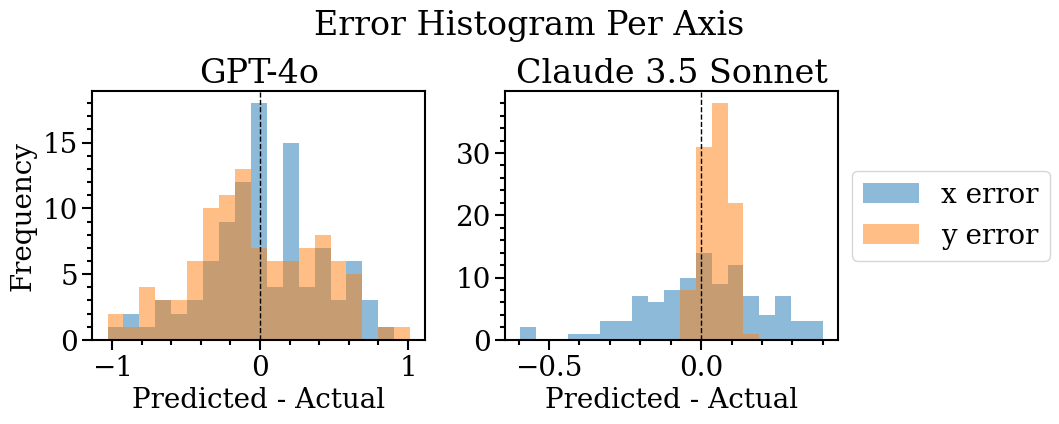
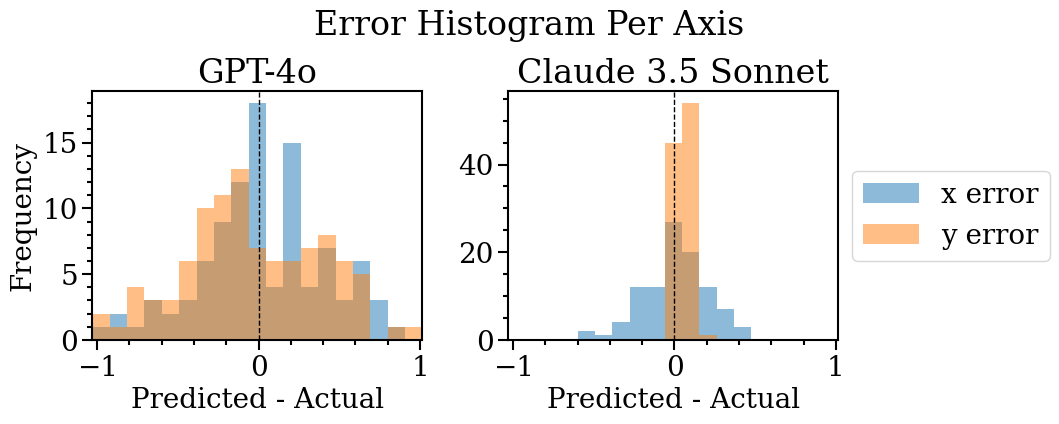
Updated histogram

diff --git a/analyze_results.py b/analyze_results.py
@@ -71,13 +71,24 @@ plt.close()
 fig, axes = plt.subplots(nrows=1, ncols=len(names), figsize=(11, 5))
 fig.suptitle('Error Histogram Per Axis', y=0.87)
 
+errlower = np.inf
+errupper = -np.inf
 for idx, (name, filename) in enumerate(zip(names, filenames)):
     model = pd.read_csv(filename)
-
     xerr = model.x - points.x
     yerr = model.y - points.y
-    bins = np.linspace(min(xerr.min(), yerr.min()), max(xerr.max(), yerr.max()), 20)
+    minerr = min(xerr.min(), yerr.min())
+    maxerr = max(xerr.max(), yerr.max())
+    bins = np.linspace(minerr, maxerr, 20)
+    errlower = min(errlower, minerr)
+    errupper = max(errupper, maxerr)
+for idx, (name, filename) in enumerate(zip(names, filenames)):
+    model = pd.read_csv(filename)
+    xerr = model.x - points.x
+    yerr = model.y - points.y
+    bins = np.linspace(errlower, errupper, 20)
     ax = axes[idx]
+    ax.set_xlim(errlower, errupper)
     ax.hist(xerr, bins=bins, alpha=0.5, label='x error')
     ax.hist(yerr, bins=bins, alpha=0.5, label='y error')    
     ax.axvline(0, color='black', lw=1, ls='--')
@@ -85,6 +96,7 @@ for idx, (name, filename) in enumerate(zip(names, filenames)):
     ax.set_xlabel('Predicted - Actual')
     if idx == 0:
         ax.set_ylabel('Frequency')
+    print('\n', name)
     print(f'Mean absolute x error: {np.mean(np.abs(model.x - points.x)):.2f}')
     print(f'Mean absolute y error: {np.mean(np.abs(model.y - points.y)):.2f}')
 # Place legends outside the far rightmost plot

diff --git a/ReadMe.md b/ReadMe.md
@@ -44,6 +44,6 @@ More ticks and gridlines can increase GPT-4o's accuracy, but real-world plots wo
 The fact that Claude 3.5 Sonnet performs significantly worse for predicting $x$ over $y$ is interesting and could provide insight into how tokenized images are fed into the model. This effect is not seen in GPT-4o, which performs equally bad for both $x$ and $y$.
 
 
-I am not an expert on this, but here is some speculation. These differences between GPT-4o and Claude might suggest different architectures (early-fusion vs a grafted on image encoder). If Claude 3.5 Sonnet tokenizes in a raster-order, top-left to bottom-right row by row like reading, then the tokens containing the $y$-axis ticks/labels will be a row-length apart and the tokens containing the $x$-axis ticks/labels will all together in the same row. Perhaps having all the $x$-axis tokens together in the same row makes their positional encodings very similar, so the model struggles to have attention differentiate between them.
+I am not an expert on this, but here is some speculation. These differences between GPT-4o and Claude might suggest different architectures (early-fusion vs a grafted on image encoder). If Claude 3.5 Sonnet tokenizes in a raster-order, top-left to bottom-right row by row like reading, then the tokens containing the $y$-axis ticks/labels will be a row-length apart and the tokens containing the $x$-axis ticks/labels will all together in the same row. Perhaps having all the $x$-axis tokens together in the same row makes their positional encodings very similar, so perhaps the model might struggle to differentiate them (?).
 
 ![ErrorHistogram](analysis/error_histogram.png)
